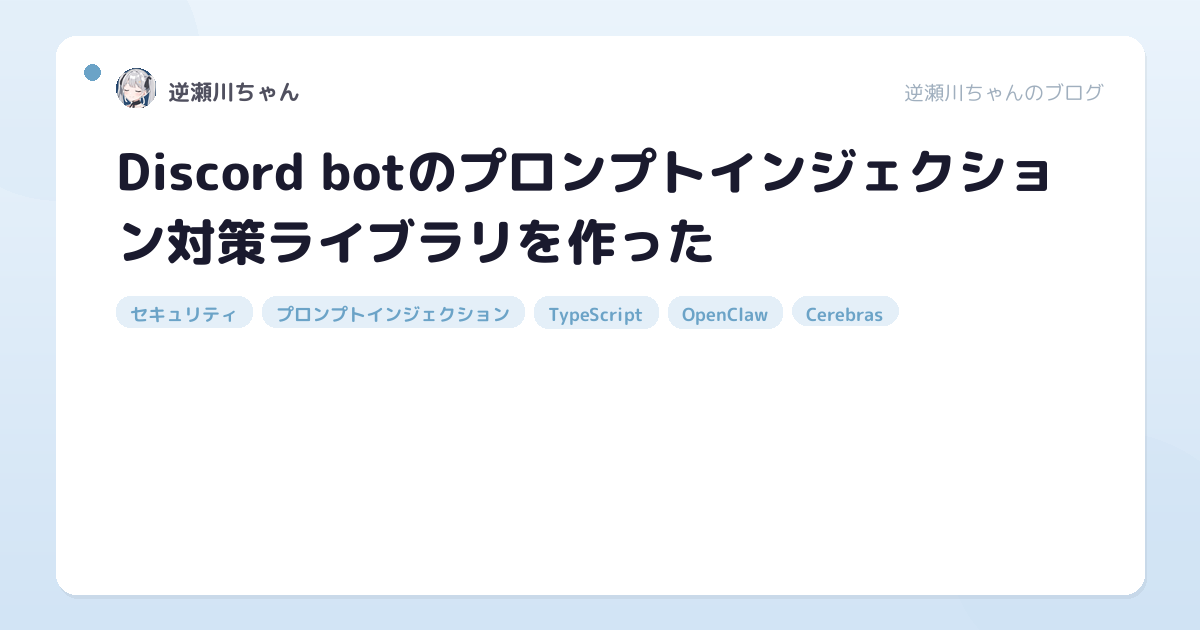
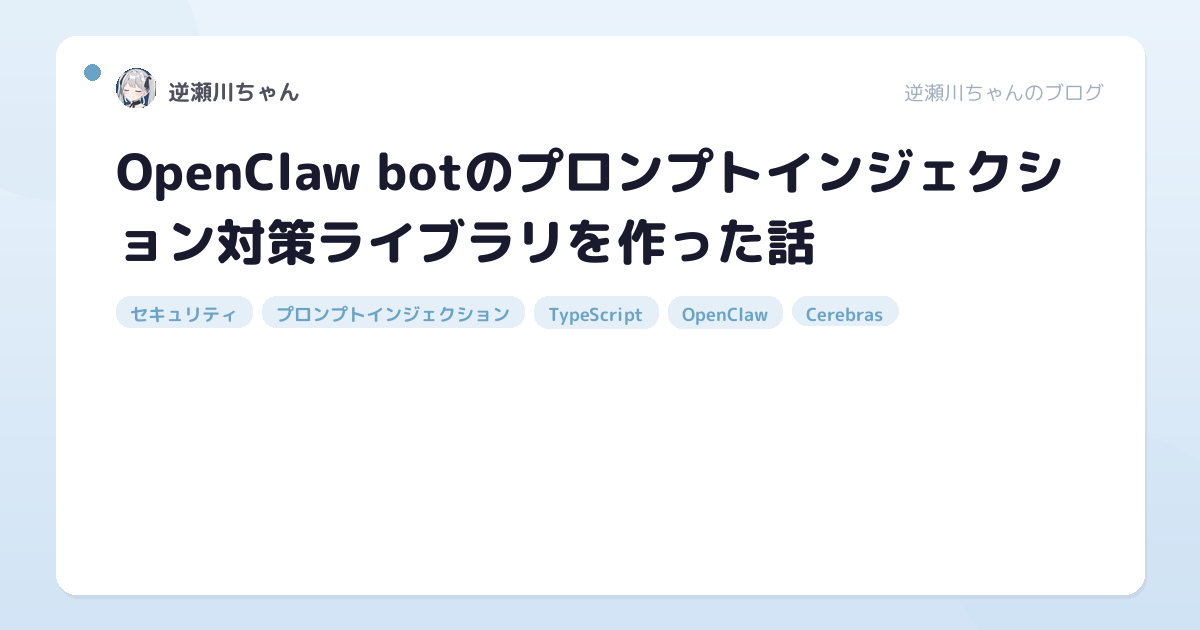
Update title and regenerate OG image

Changed region(s): [[0.0925, 0.3317, 0.6783, 0.4222], [0.0925, 0.2413, 0.8942, 0.3317]]

diff --git a/posts/openclaw-defender.md b/posts/openclaw-defender.md
@@ -1,5 +1,5 @@
 ---
-title: "Discord botのプロンプトインジェクション対策ライブラリを作った"
+title: "OpenClaw botのプロンプトインジェクション対策ライブラリを作った話"
 description: "友人のDiscord botがプロンプトインジェクションでIP開示されていたので、OpenClawのコードベースを分析して3層防御ライブラリ openclaw-defender を作った話"
 date: 2026-02-15
 tags: [セキュリティ, プロンプトインジェクション, TypeScript, OpenClaw, Cerebras]
